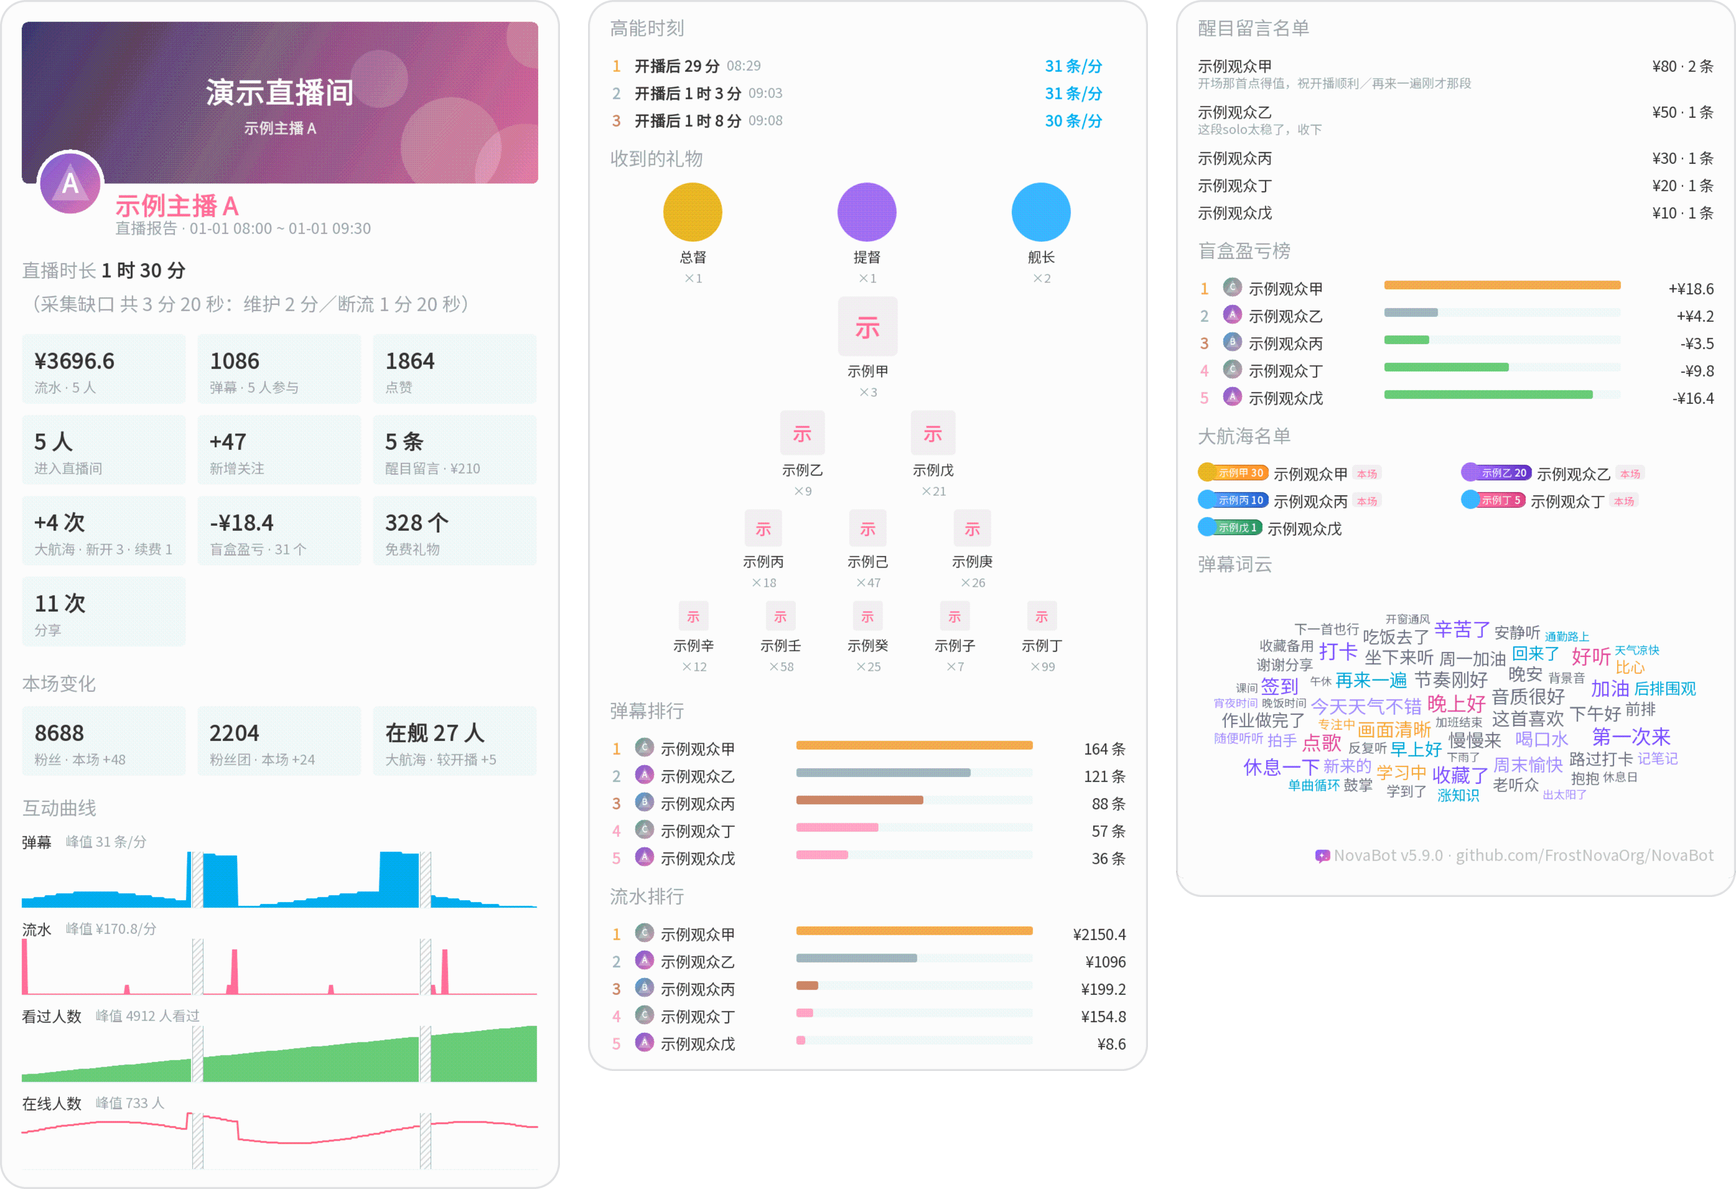
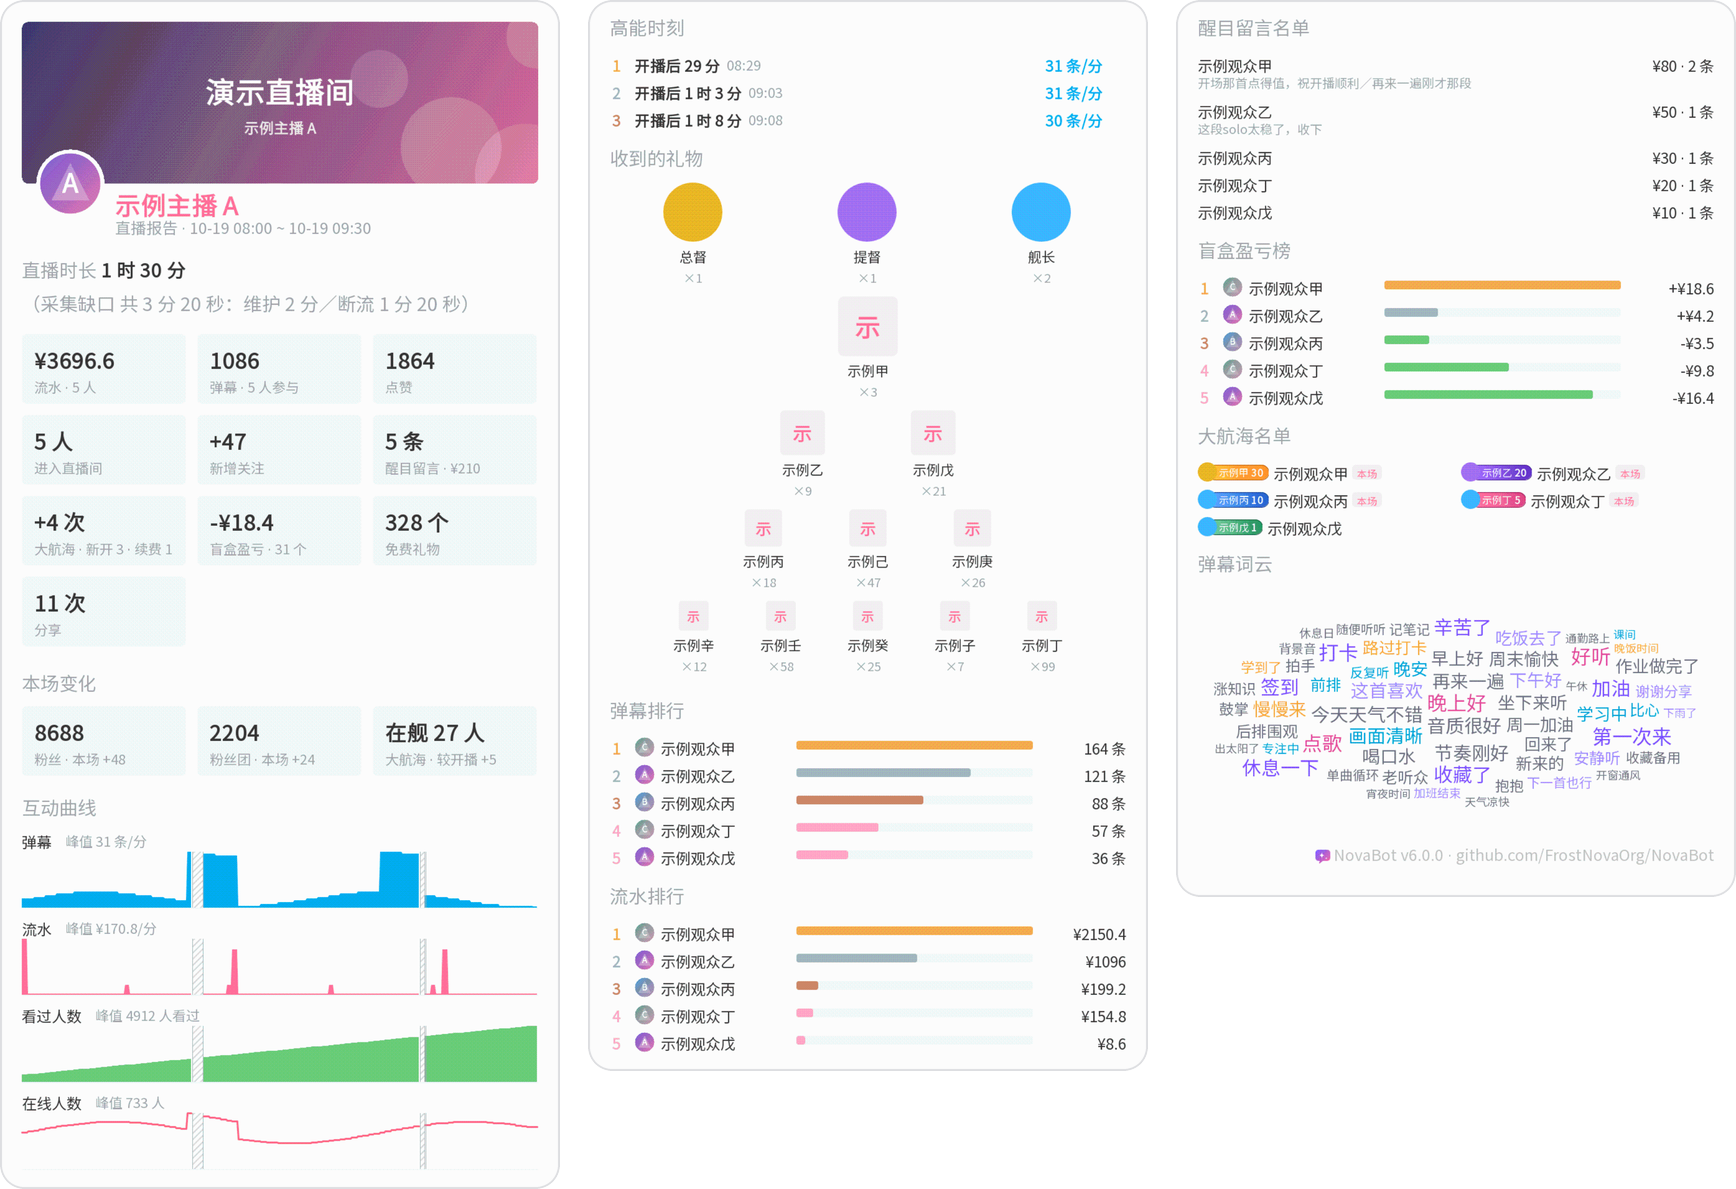
6.0.0 正式版：版本号、更新日志定稿与示例图重出

Changed region(s): [[0.6843, 0.4979, 0.9954, 0.6846], [0.2177, 0.8713, 0.2488, 0.9024]]

diff --git a/plugins/nova-report/src/test/java/org/frostnova/nova/report/demo/DemoAssets.java b/plugins/nova-report/src/test/java/org/frostnova/nova/report/demo/DemoAssets.java
@@ -101,8 +101,11 @@ public final class DemoAssets {
 
     static final String ROSTER_FILE = "roster.txt";
 
-    /** 开播时刻写死，词云种子与时长才两次相同 */
-    static final long START_MILLIS = 1_704_067_200_000L;
+    /**
+     * 开播时刻写死，词云种子与时长才两次相同。
+     * 演示场次离重出那天不能超过 400 天，超了两段缺口一记就被清掉，报告上「采集缺口」那句就没了
+     */
+    static final long START_MILLIS = 1_792_368_000_000L;
 
     static final long DURATION_MILLIS = 90L * 60_000L;
 
@@ -484,8 +487,8 @@ public final class DemoAssets {
         data.setLiveEndTime(platform, STREAMER_UID, end);
 
         // 采集缺口两个成因各留一段：停机（维护）与本房断线（断流）是两格账，各记各的。
-        // 一格里不记第二段——每记新的一段都会先清掉 30 天前的旧段，而演示场次在 2024 年，
-        // 再记也留不下来。这样报告上「采集缺口」那句话两个成因的分栏都看得到
+        // 一格里不记第二段——每段都是先记后清，比现在早 400 天以上的一记就清掉，
+        // 演示场次一旧，记了也留不下来。这样报告上「采集缺口」那句话两个成因的分栏都看得到
         data.recordDowntime(START_MILLIS + 30 * 60_000L, START_MILLIS + 32 * 60_000L, LiveGap.Reason.MAINTENANCE);
         data.recordRoomOutage(platform, STREAMER_UID, START_MILLIS + 70 * 60_000L,
                 START_MILLIS + 71 * 60_000L + 20_000L);

diff --git a/CHANGELOG.md b/CHANGELOG.md
@@ -8,7 +8,7 @@
 
 ### 从 5.9 升级到 6.0
 
-这一段写给还在 5.9.x 正式版上的人，把 6.0 各测试版与本节的改动合起来说，细节见各节。
+这一段写给还在 5.9.x 正式版上的人，把 6.0 各测试版与本节的改动合起来说，细节见各节。各测试版的完整改动见[更新日志 CHANGELOG.md](https://github.com/FrostNovaOrg/NovaBot/blob/main/CHANGELOG.md)。
 
 6.0 主要有这几块：
 
@@ -32,7 +32,7 @@
 
 ### 新增
 
-- 控制台可以接统一登录（OpenID Connect）账户中心，默认关闭。开了以后，登录页最上面是「使用统一登录」主按钮，账户中心支持注册时下面还有「用统一身份注册」；通行密钥和密码登录收进最下面的「其他登录方式」，点开即用。点了「使用统一登录」以后，要在 10 分钟内在账户中心登完（包括注册和验证邮箱），超时回来会提示「统一登录失败，请重试或联系管理员」，再点一次即可。新身份第一次登录只登记为「待授权」，提示里写明管理员授权后再点「使用统一登录」进来；本地管理员可以把自己的统一登录身份绑定，之后用口令或这个身份进的是同一个账号。控制台每 4 分钟向账户中心复核一次统一登录的会话，账户中心停用或删除的人几分钟内下线；接通标准的后台登出后，账户中心通知退出时立即注销。
+- 控制台可以接统一登录（OpenID Connect）账户中心，默认关闭。开了以后，登录页最上面是「使用统一登录」主按钮，账户中心支持注册时下面还有「用统一身份注册」；通行密钥和密码登录收进最下面的「其他登录方式」，点开即用；被要求先用本地方式重新登录时会自动展开。点了「使用统一登录」以后，要在 10 分钟内在账户中心登完（包括注册和验证邮箱），超时回来会提示「统一登录失败，请重试或联系管理员」，再点一次即可。新身份第一次登录只登记为「待授权」，提示里写明管理员授权后再点「使用统一登录」进来；本地管理员可以把自己的统一登录身份绑定，之后用口令或这个身份进的是同一个账号。控制台每 4 分钟向账户中心复核一次统一登录的会话，账户中心停用或删除的人几分钟内下线；接通标准的后台登出后，账户中心通知退出时立即注销。
 - 新增「成员」身份，给主播本人或公会运营用：成员用统一登录进来，只管管理员分给自己的主播，能改这几位的推送配置、看他们的数据、把运营周报试发到他们自己的通道，看不到别的主播。成员的左栏只有首页、推送、主播和使用说明；首页只显示自己名下主播的直播、今日推送数与事件；推送页没有「添加主播」和删除主播，默认模板只能看。管理员改了成员负责的主播，立即生效。
 - 成员给自己的主播加群或好友通道时，要填完整的群号或 QQ 号来查，查到才能加，保存时还会再查一次；机器人不在那个群或没有这位好友，就加不上。机器上有几个推送平台时，先选平台。
 - 设置页加「成员」一块，只有管理员看得到：待授权的排在最前，可以给成员指定主播、「授权并启用」「停用」（对方立刻下线）、「改为管理员」「改为成员」，也可以删除待授权或已停用的成员；填了「账户管理页」时，可从这里点「新建成员」去账户中心建账号。在设置页搜索时，这一块也跟着筛选。
@@ -46,7 +46,7 @@
 - 金额显示、静音时段与命令开关改成每位主播在每个群或好友各一份，同一个群里的几位主播可以各设各的；在控制台或群里改了立即生效，不用重启。升级时怎么迁见本节开头。推送页的通道行直接带「已禁用 N 条命令」「静音中」标记，不用点进去也看得出它为什么暂时不推送或不回命令。
 - 推送页里讲金额显示、静音时段、命令开关的说明都改成按通道说：添加通道、移除通道、冲突后重新载入时，写明哪些设置只属于这条通道、哪些会保留。通道设置里静音时段的三档叫「使用全局设置」「本通道自定义时段」「本通道不静音」；设置页全局静音时段的说明也改成按通道说。命令被关时的说明与群里实际的两种回话一致：点名的主播关了这条命令时回「本群已关闭「主播名」的「命令名」」，本群各主播都关了时回「本群已关闭「命令名」命令」。
 - 推送配置改成按主播保存，两人同时改不同的主播不再互相覆盖。同一位主播被别人先存了，页面提示「这位主播的配置刚被别人改过，请重新载入」并给出「重新载入」按钮，丢弃未保存的修改前先确认。
-- 首页更紧凑：「当前直播」每位一行，手机上最多分两行；健康自检先显示摘要，点「查看全部检查项」展开。主播列表分「启用主播」「停用主播」两组，切换主播时显示加载状态；推送页的模板与版式编辑区可以折叠。
+- 首页更紧凑：「待办」挪到最上面；「链路」改成「连接状态」里直播平台、本机、机器人三个入口，点平台或机器人去连接页，点本机看健康自检；「当前直播」每位一行，手机上最多分两行；宽屏下分左右两列，「今日」与健康自检在左、今日事件在右；健康自检先显示摘要，点「查看全部检查项」展开，出现新的严重异常时自动展开。主播列表分「启用主播」「停用主播」两组，切换主播时显示加载状态；推送页的模板与版式编辑区可以折叠。
 - 使用手册新增第 15 章「成员：让主播和公会运营自己管理」，讲怎么给主播本人或公会运营开成员账号、分配主播、停用与删除，以及成员能做什么，配了成员视角的截图；新增附录 E「接统一登录账户中心」，讲账户中心要满足的条件、怎么登记控制台、设置页七项怎么填，并以 Keycloak 为例一步步配。第 5、12 章加了指向第 15 章的说明，第 14 章「配置界面打不开」一节补了强制刷新的按法。
 - 使用手册各章照现在的样子改了说法：金额显示、静音时段、命令开关写成每位主播在每个群各一份，说明升级后旧设置照抄到每条通道，以及几位主播同在一个群时怎么只关其中一位的命令；补了每位主播自己的屏蔽名单、两人同时改同一位主播时怎么办、去哪查是谁改了配置，以及首页「当前直播」和主播列表的新样子。管理员一侧的截图换成了 6.0 现在的界面，图下说明照新图改了。
 
@@ -56,6 +56,7 @@
 - 主播页「近期趋势」折线上，前后两天都没有数据的单独一天现在画出一个放大的点，隔天开播的主播不再整张图只剩坐标；未播或缺测的日子仍断开、不连线。
 - 首页连接格在推送暂停或静音时明确写「已暂停」「静音中」，不再写成「未启用」。推送平台没给出具体叫法时，几处提示不再夹着多余的空格，比如「与机器人程序中的配置保持一致」。
 - 升级以后，浏览器或 CDN 不会再拿旧脚本配新页面：控制台的脚本和样式地址带上了版本号，同一版本内浏览器会存下来，再打开更快。打开时先显示「正在加载…」，左栏的日志、连接、设置确认是管理员后才出现；网慢时过了 15 秒提示刷新并给「重试」按钮，载完照常能用；脚本没能跑起来时，30 秒后提示强制刷新（Mac 按 Cmd+Shift+R，Windows 按 Ctrl+F5）。
+- 主播页的分区名、趋势表里的日期、翻页、「清除筛选」和观众名单里的名字改用主题色的链接，深色模式下不再是看不清的深蓝。
 
 ### 安全
 
